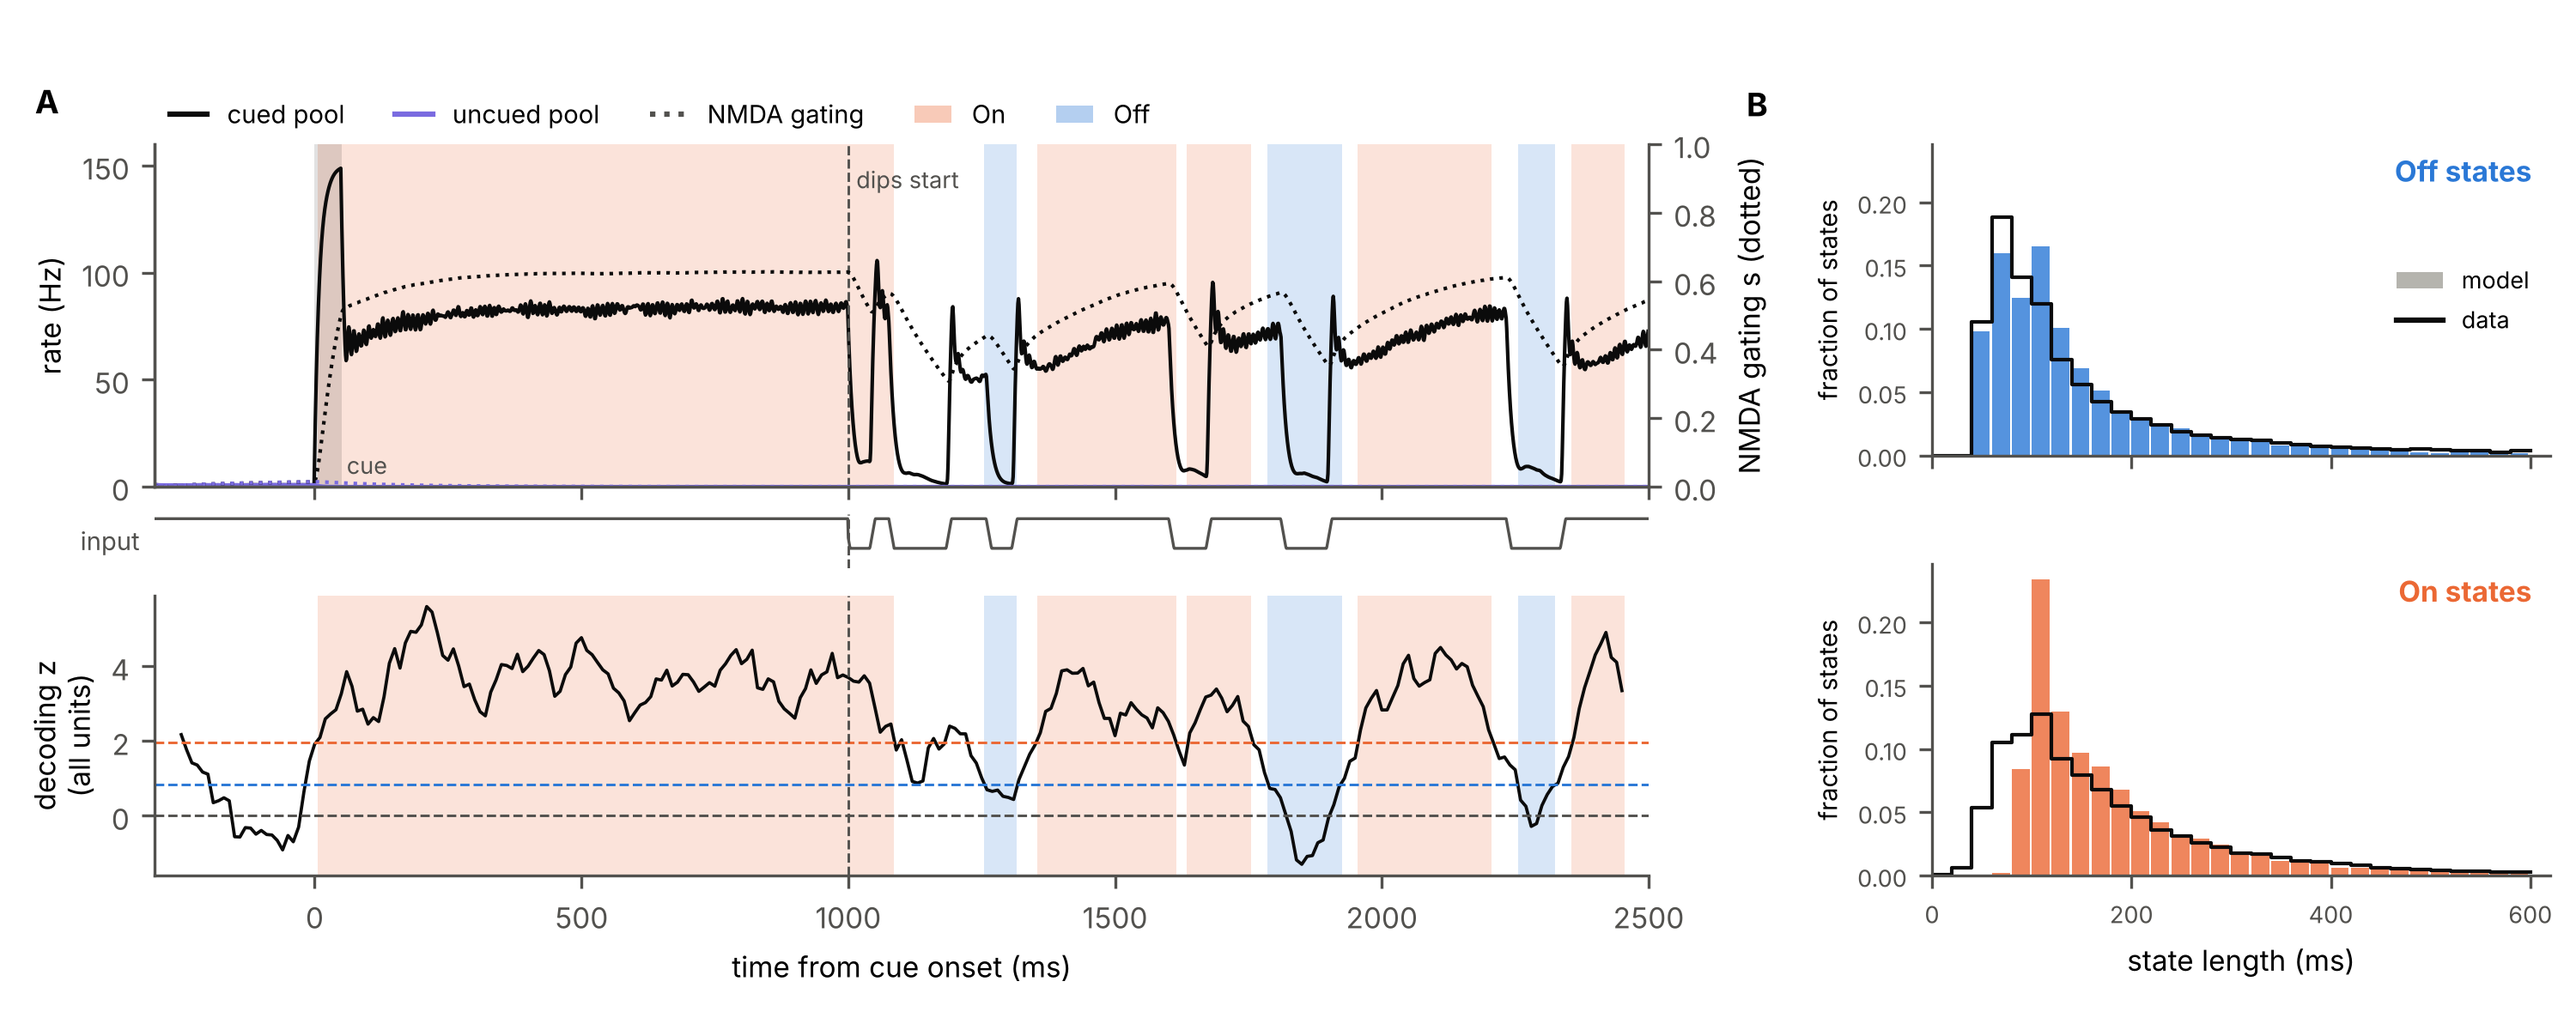
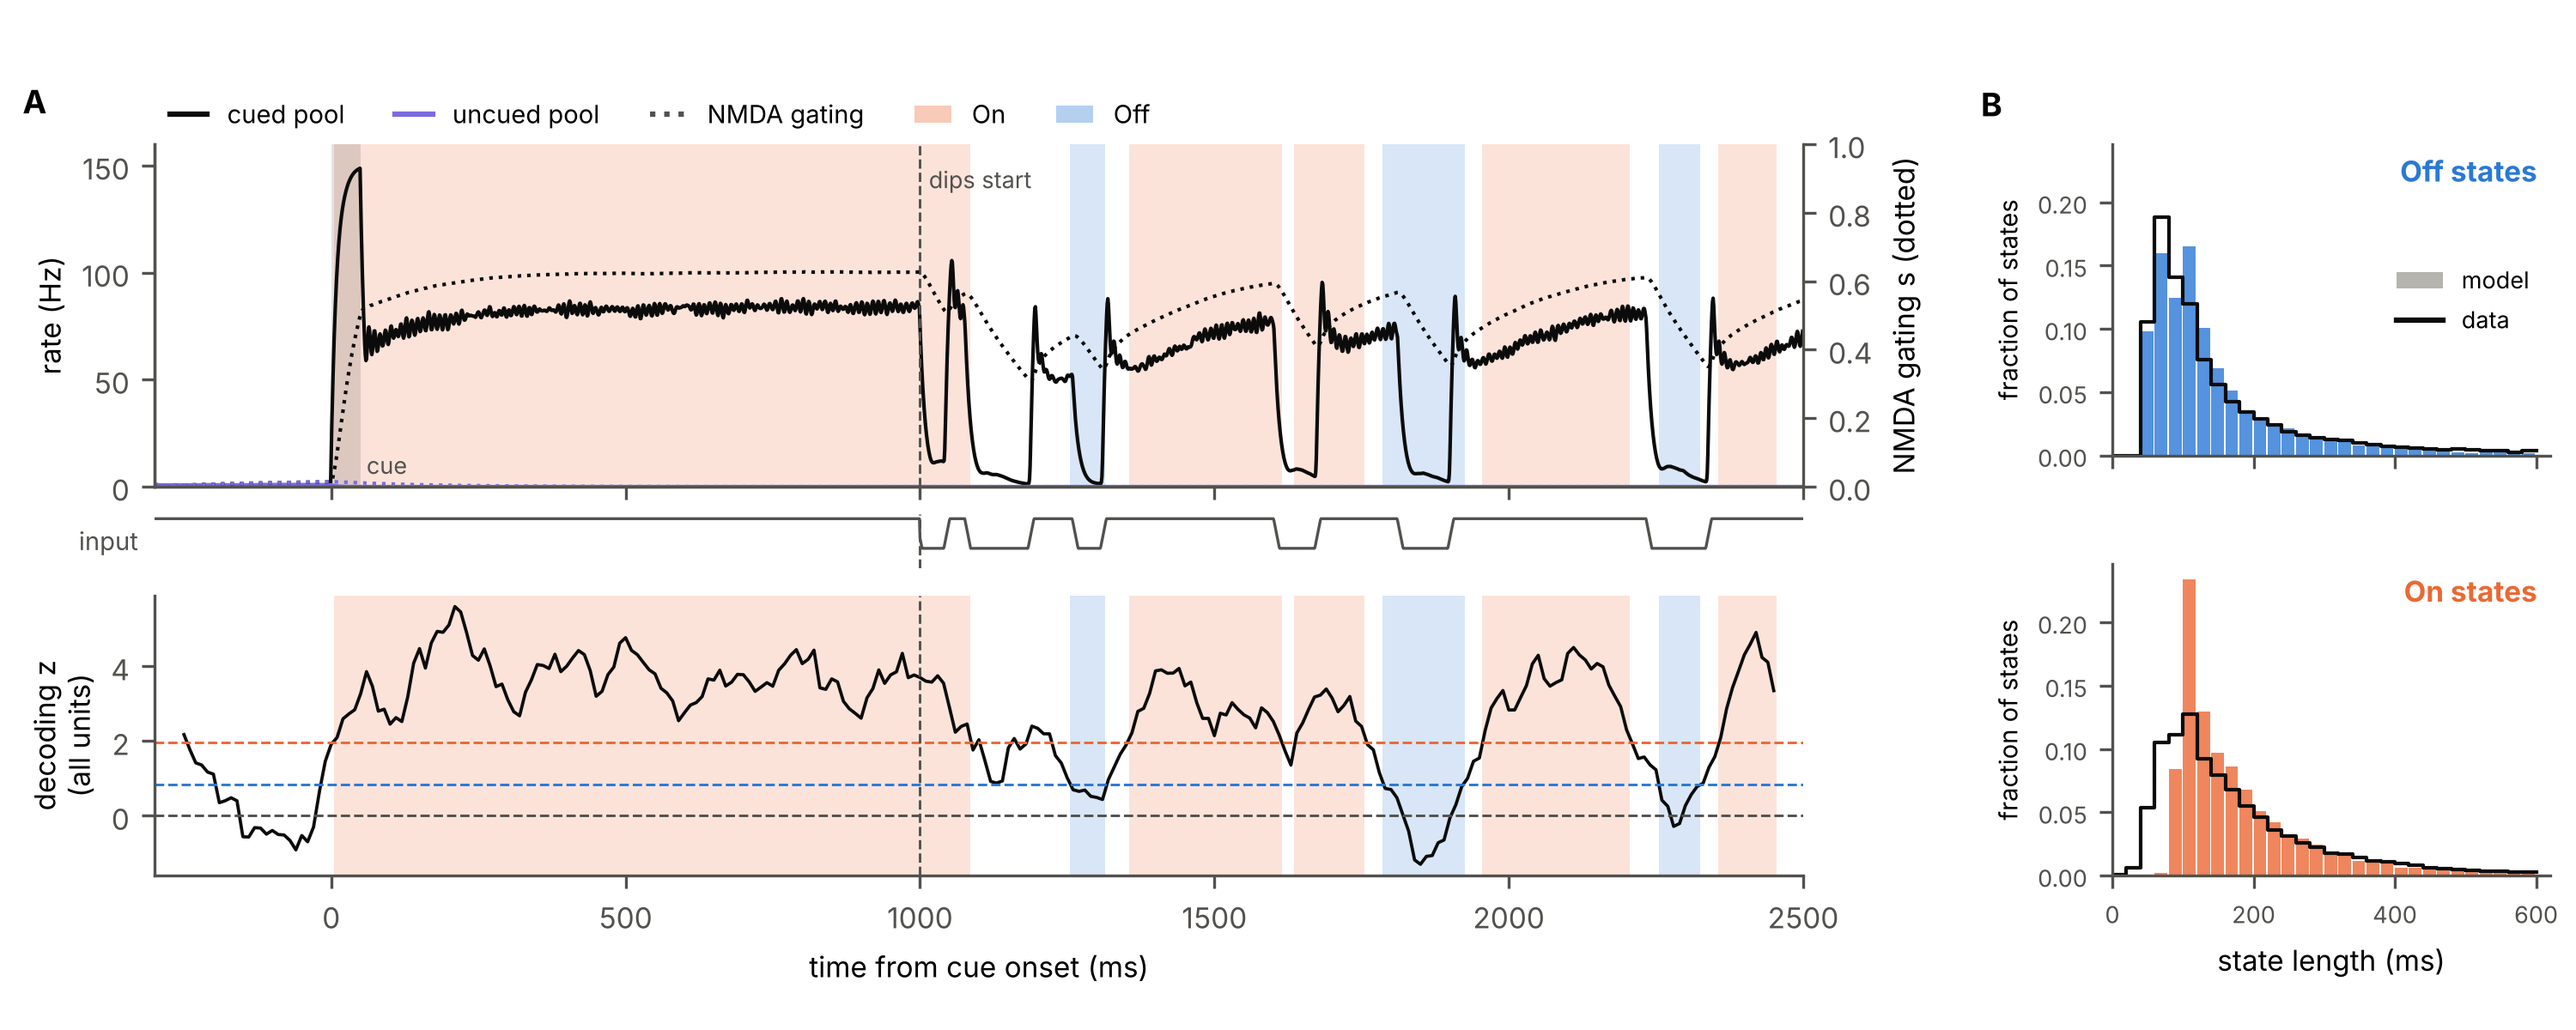
Figure 1: narrower histogram column
Claude-Session: https://claude.ai/code/session_01DWA8oLxpZgubPZ4A6kb3Lh

diff --git a/paper_model/make_figures.py b/paper_model/make_figures.py
@@ -60,8 +60,8 @@ def figure1(out, hist, path):
     r = out['sets'][FIT_SET]
     tr, t, tz, z, state = example_trial(r['gain'])
     fig = plt.figure(figsize=(10.0, 4.0))
-    gs = fig.add_gridspec(3, 1, height_ratios=[2.2, 0.35, 1.8], hspace=0.12, left=0.06, right=0.64, top=0.86, bottom=0.15)
-    gh = fig.add_gridspec(2, 1, hspace=0.35, left=0.75, right=0.99, top=0.86, bottom=0.15)
+    gs = fig.add_gridspec(3, 1, height_ratios=[2.2, 0.35, 1.8], hspace=0.12, left=0.06, right=0.70, top=0.86, bottom=0.15)
+    gh = fig.add_gridspec(2, 1, hspace=0.35, left=0.82, right=0.99, top=0.86, bottom=0.15)
     a, b, d = fig.add_subplot(gs[0]), fig.add_subplot(gs[1]), fig.add_subplot(gs[2])
     shade(a, tz, state)
     a.axvspan(0, M.FIXED['cue_dur'], color=INK, alpha=0.12, lw=0)
